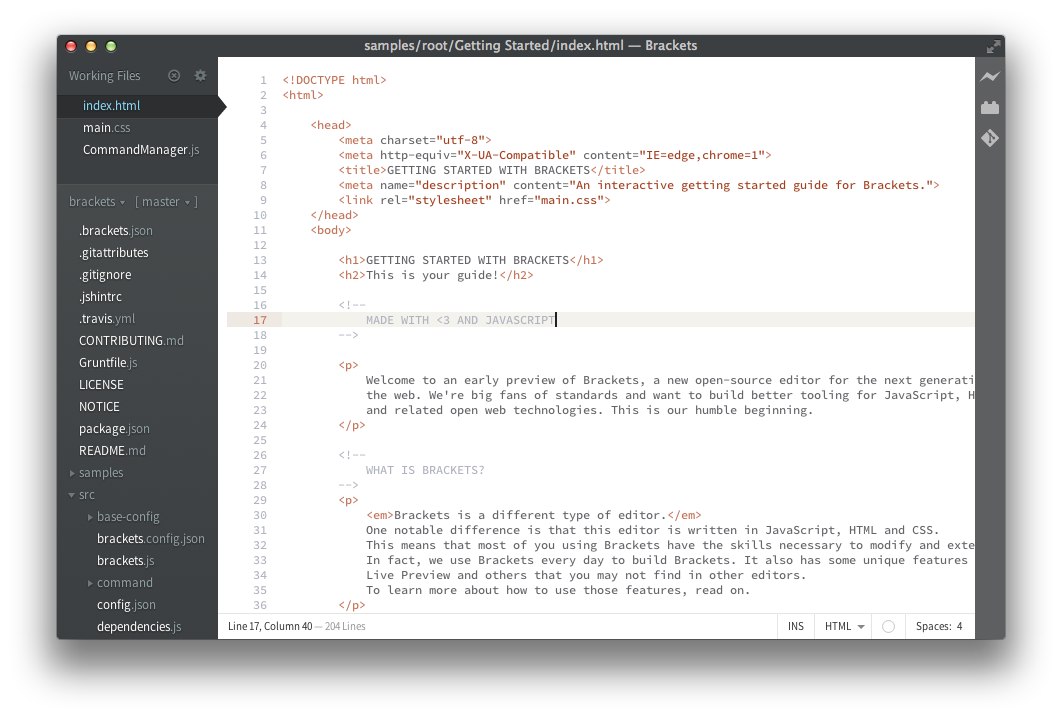
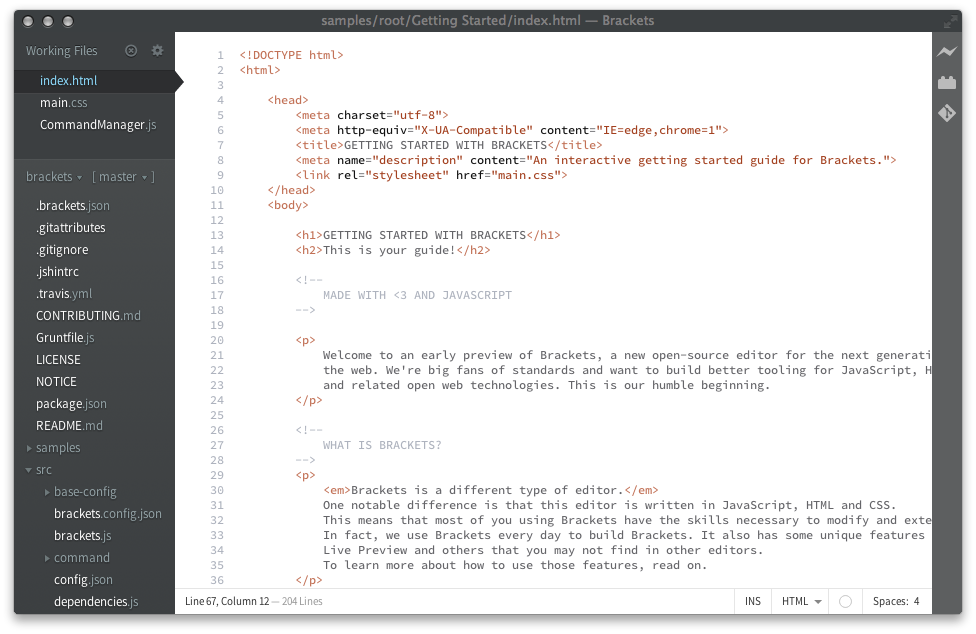
Tweak.

diff --git a/dieterbamz.css b/dieterbamz.css
@@ -6,6 +6,7 @@ span.cm-qualifier	{ color: #a3401f; }
 span.cm-string		{ color: #a3401f; }
 span.cm-string-2    { color: #a3401f; }
 
+span.cm-attribute	{ color: #111111; }
 span.cm-def			{ color: #111111; }
 span.cm-header      { color: #111111; }
 span.cm-keyword		{ color: #111111; }
@@ -13,7 +14,6 @@ span.cm-operator	{ color: #111111; }
 span.cm-property	{ color: #111111; }
 
 span.cm-atom		{ color: #656569; }
-span.cm-attribute	{ color: #656569; }
 span.cm-number		{ color: #656569; }
 span.cm-variable	{ color: #656569; }
 span.cm-variable-2	{ color: #656569; }
